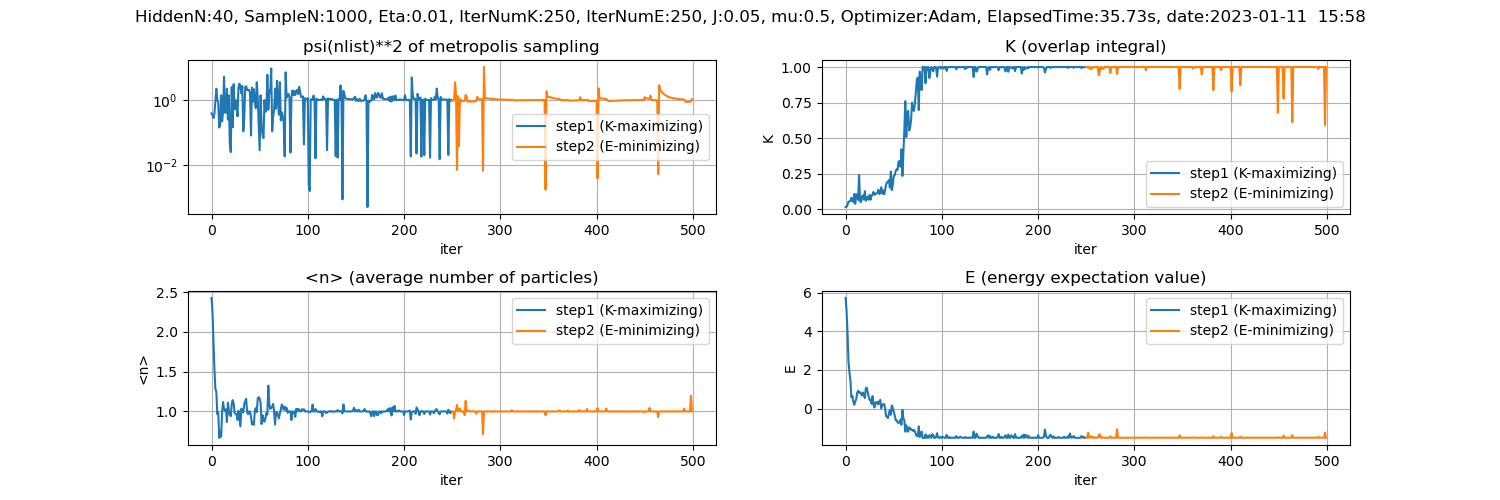
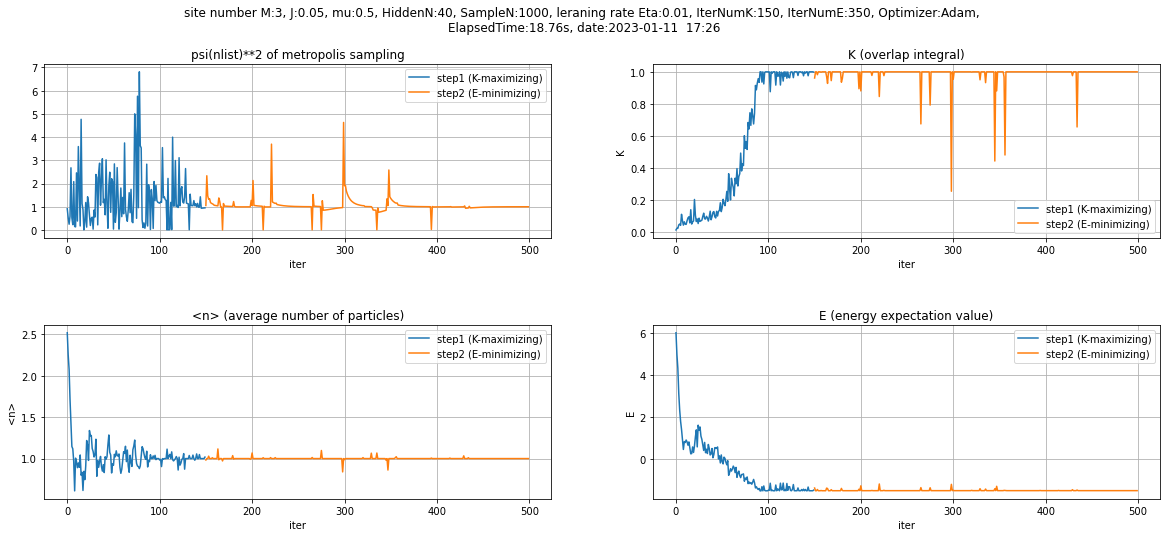
1/11

diff --git a/Bose-Hubbard/main.py b/Bose-Hubbard/main.py
@@ -47,16 +47,16 @@ for i in range(params.ITER_NUM_K, params.ITER_NUM_K + params.ITER_NUM_E):
 #nlist_E, psi2_E = neural_network.output_psi2(weight, L=params.MAX_X, N=100)
 
 
-fig = plt.figure(figsize=(15, 5))
+fig = plt.figure(figsize=(20, 8))
 fig.suptitle(
     params.paramter_strings + ", "
-    f"Optimizer:{weight['w1'].__class__.__name__}, "
+    f"Optimizer:{weight['w1'].__class__.__name__}, \n"
     f"ElapsedTime:{time.time()-time_start:.2f}s, "
     f"date:{datetime.datetime.now().strftime('%Y-%m-%d  %H:%M')}")
 is_K, Ks_K, Hs_K, beta_K, ns_K, n_avg_K, ps_K, b2s_K = zip(*iterData_K)
 is_E, Ks_E, Hs_E, beta_E, ns_E, n_avg_E, ps_E, b2s_E = zip(*iterData_E)
 
-print(np.array(ps_K))
+#print(np.array(ps_K))
 
 """
 # サイト1の粒子数
@@ -71,7 +71,7 @@ ax2.grid(True)
 """
 
 """
-# 規格化用の重みw2
+# 規格化用の重みb2
 ax2 = fig.add_subplot(223)
 ax2.plot(is_K, (np.array(b2s_K) ), label="step1 (K-maximizing)")
 ax2.plot(is_E, (np.array(b2s_E) ), label="step2 (E-minimizing)")
@@ -90,7 +90,7 @@ ax2.plot(is_E, (np.array(ps_E) ), label="step2 (E-minimizing)")
 ax2.set_title("psi(nlist)**2 of metropolis sampling")
 ax2.set_xlabel("iter")
 #ax2.set_ylim(-1, 5)
-ax2.set_yscale("log")
+#ax2.set_yscale("log")
 ax2.legend()
 ax2.grid(True)
 

diff --git a/Bose-Hubbard/parameter.py b/Bose-Hubbard/parameter.py
@@ -27,22 +27,23 @@ N_SQRT = np.sqrt(N_SEQ)
 HIDDEN_N = 40
 SAMPLE_N = 1000
 DX = 1e-3
-ITER_NUM_K = 250
-ITER_NUM_E = 250
+ITER_NUM_K = 150
+ITER_NUM_E = 350
 MAX_X = 5.0
 
 
-J = 0.1
+J = 0.05
 MU = 0.5
 U = 1
 
 paramter_strings = (
+    f"site number M:{M}, "
+    f"J:{J}, "
+    f"mu:{MU}, "
     f"HiddenN:{HIDDEN_N}, " 
     f"SampleN:{SAMPLE_N}, "
-    f"Eta:{ETA}, "
+    f"leraning rate Eta:{ETA}, "
     f"IterNumK:{ITER_NUM_K}, "
-    f"IterNumE:{ITER_NUM_E}, "
-    f"J:{J}, "
-    f"mu:{MU}"
+    f"IterNumE:{ITER_NUM_E}"
 )
 
